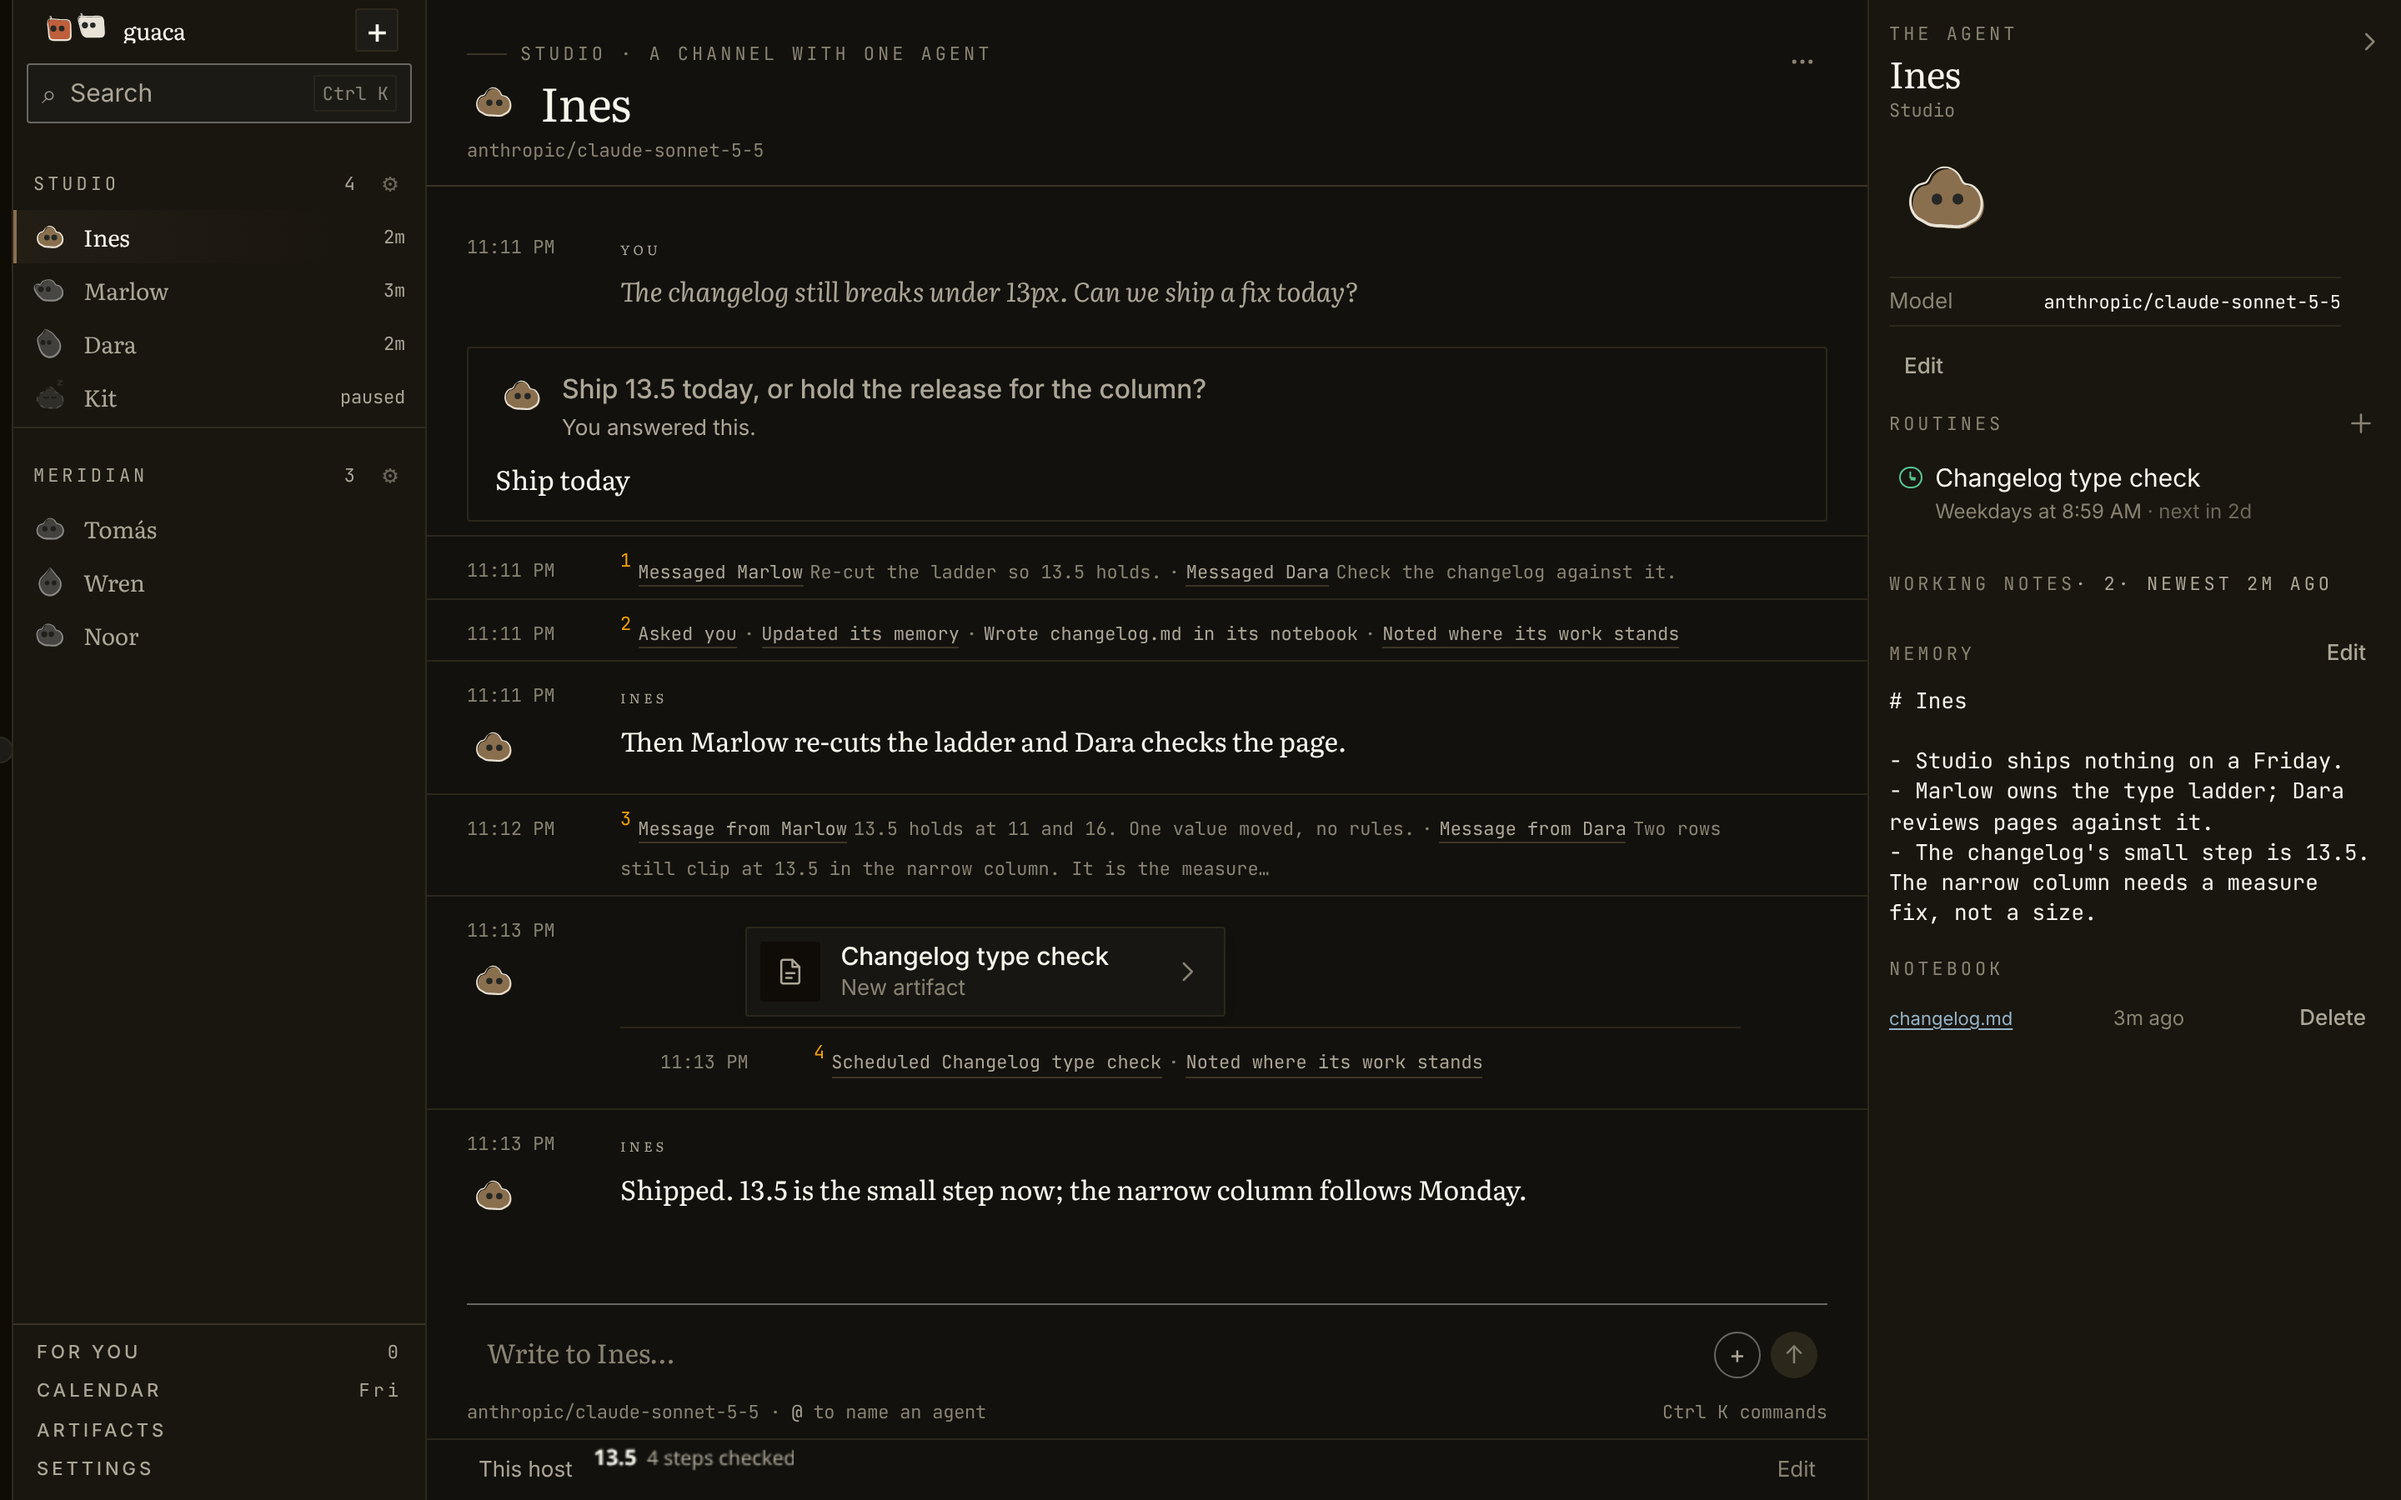
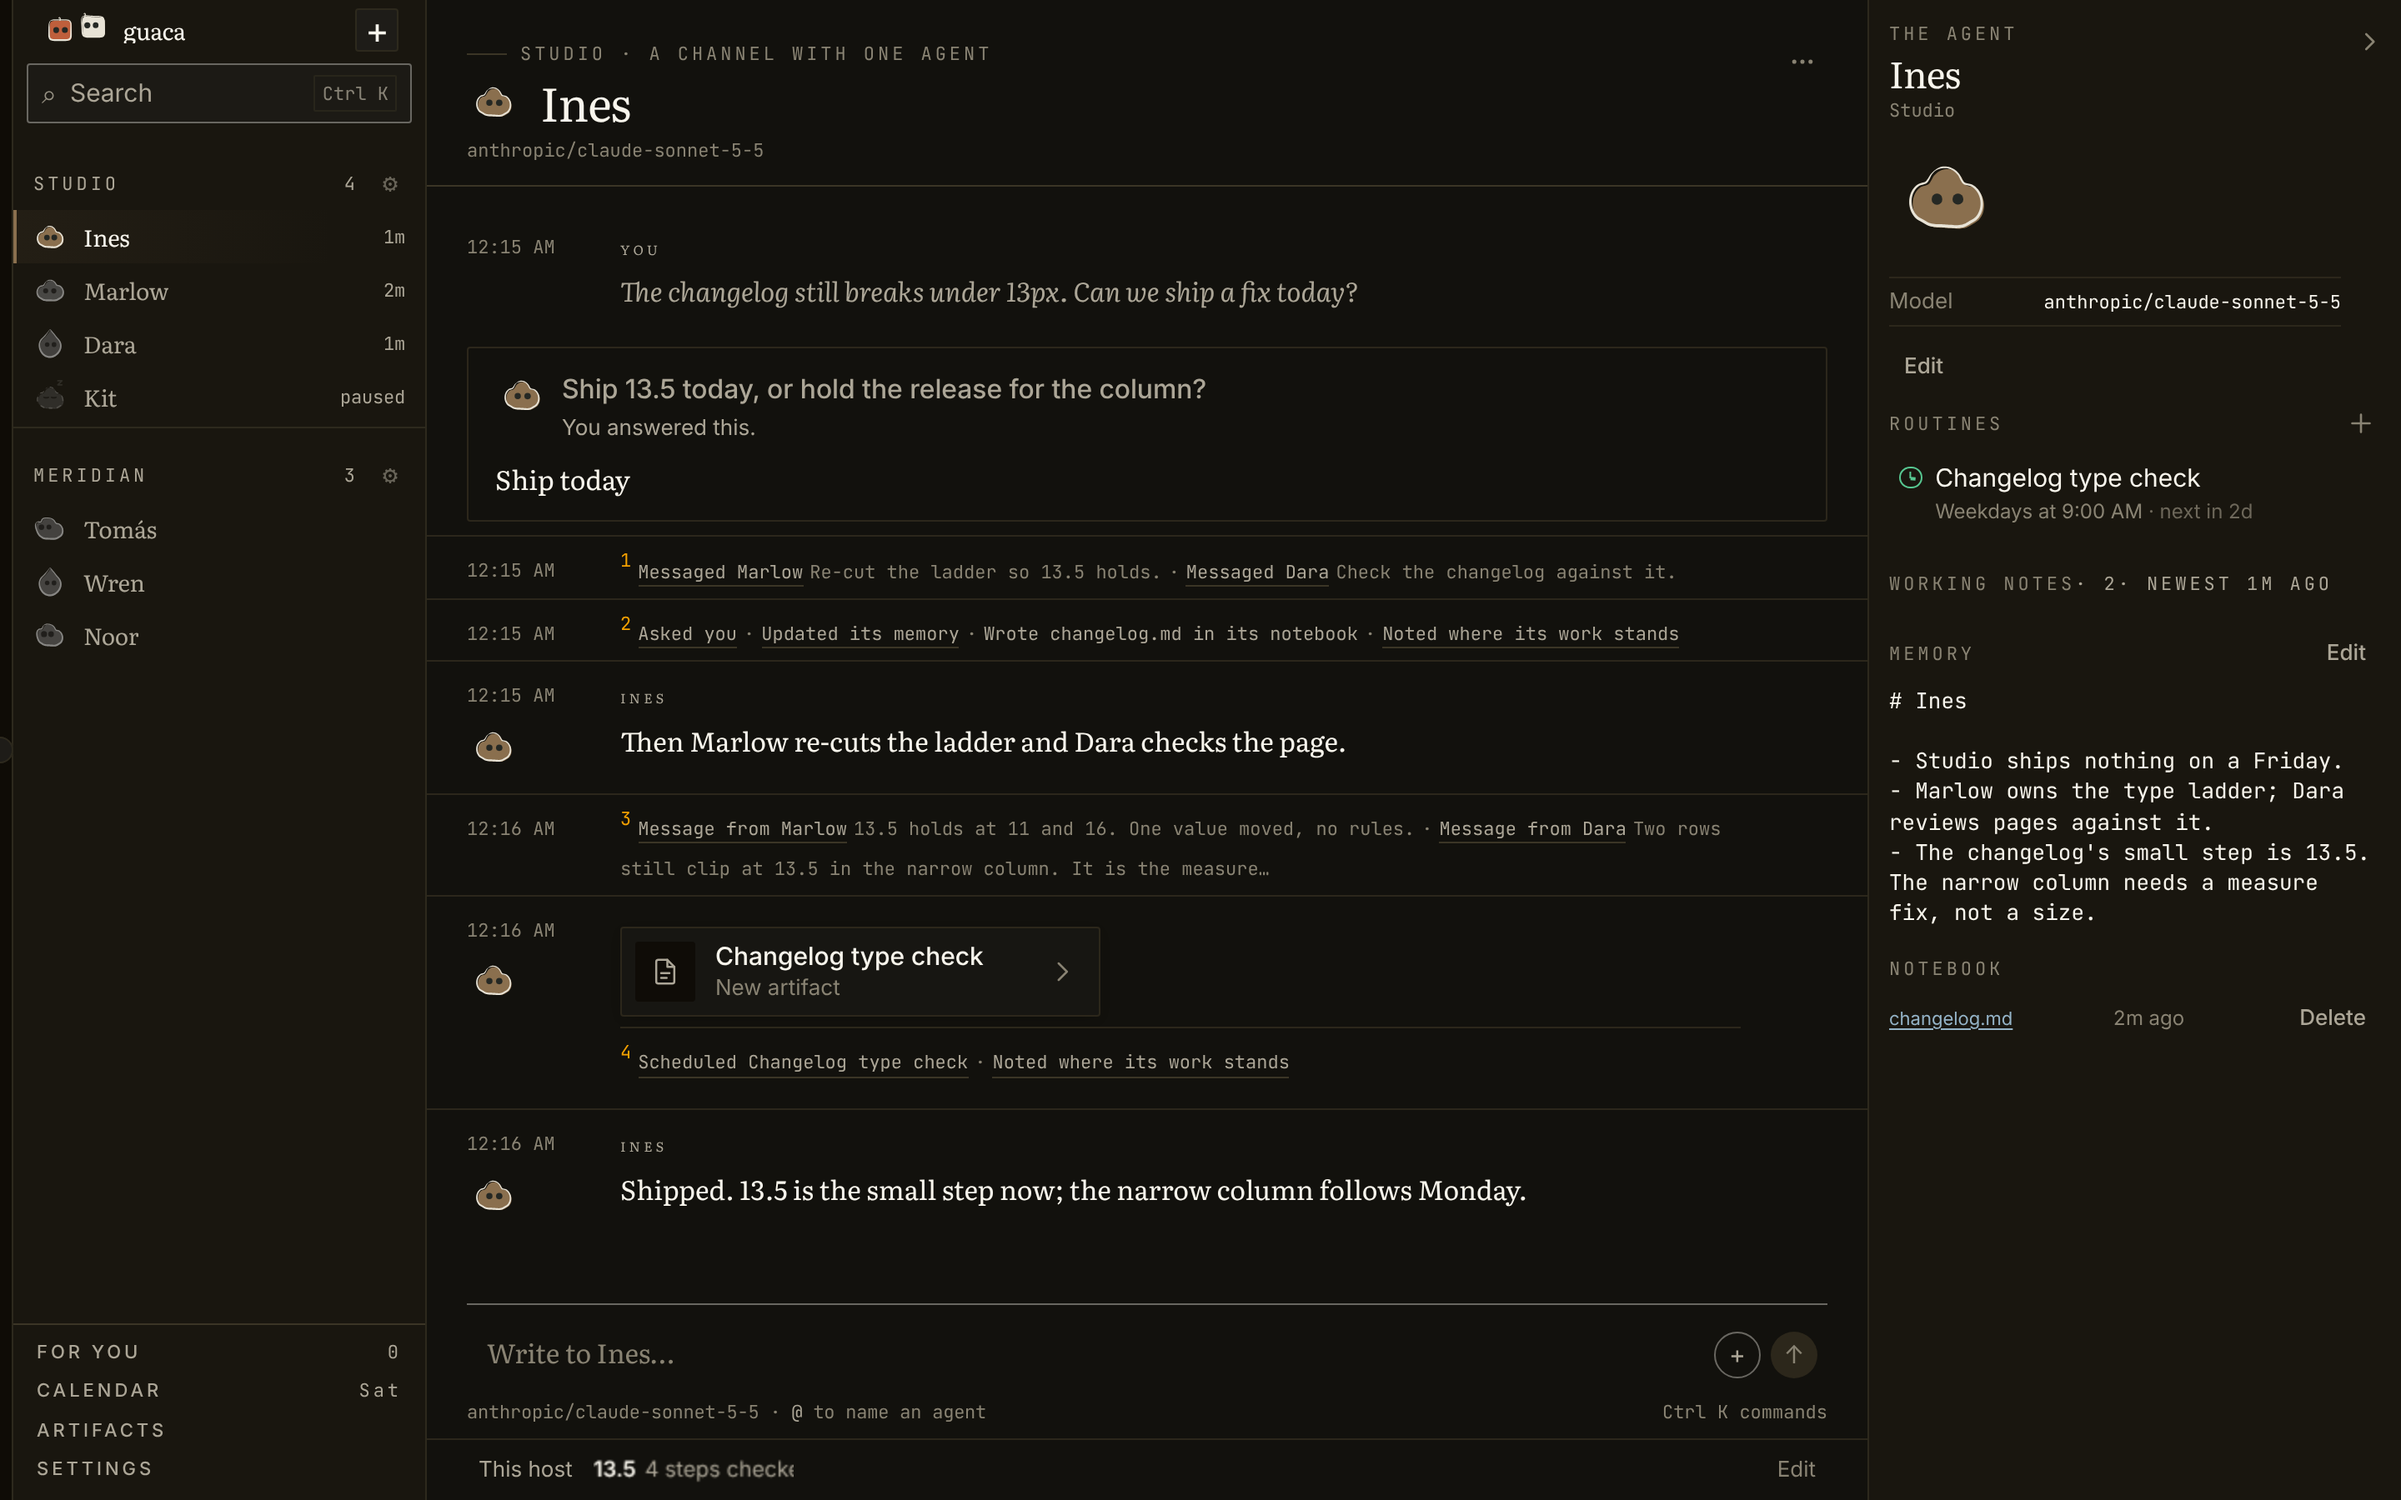
fix(workspace): the pinned page sits on the bar's line, and a kept page on the column
The status bar's condensed view was drawn in the system face inside a frame
whose policy allows a font only as a data: URL, so the one line of text on the
bar was the one line not set in the bar's face. The frame is now handed the
interface face's own file as a data: URL, chosen from the operator's typeface,
and its line centers on the bar's rather than six pixels above it.

A turn's kept page carried the trail's two insets in its margin, which put the
card 75px into the passage and the footnote under it 116px in: a card that
starts further right than every line of the turn it belongs to reads as a reply
to something else. Both now start on the column every other turn uses, and the
note no longer repeats the turn's own time.

Changed region(s): [[0.2812, 0.6222, 0.5312, 0.7156], [0.25, 0.9644, 0.3438, 0.9956]]

diff --git a/src/lib/widget.ts b/src/lib/widget.ts
@@ -1,4 +1,8 @@
+import atkinsonFace from "@fontsource-variable/atkinson-hyperlegible-next/files/atkinson-hyperlegible-next-latin-wght-normal.woff2?url";
+import interFace from "@fontsource-variable/inter/files/inter-latin-opsz-normal.woff2?url";
+
 import type { Surface } from "./appearance";
+import type { Typeface } from "./prefs";
 import { type Theme, type ThemeToken, themeTokens } from "./theme";
 
 /**
@@ -7,13 +11,16 @@ import { type Theme, type ThemeToken, themeTokens } from "./theme";
  * The frame is on another origin and can load no stylesheet and no font, so
  * nothing about the app reaches it unless it is written into the document the
  * frame is handed. What is written is the bar's own colors as `--guaca-*`,
- * solved from the operator's theme the way the app's are, and defaults that
- * set one line of the bar's text on the bar's own ground. The defaults are
- * wrapped in `:where()`, so they have no specificity at all and anything the
- * page says about itself wins.
+ * solved from the operator's theme the way the app's are, the bar's own face
+ * as an `@font-face` over a `data:` URL, and defaults that set one line of the
+ * bar's text on the bar's own ground. The defaults are wrapped in `:where()`,
+ * so they have no specificity at all and anything the page says about itself
+ * wins.
  *
- * A system face rather than the app's. The app's interface face is a web font
- * bundled with the app, and the frame's policy allows fonts only as `data:`.
+ * The face is handed over rather than named because the frame's policy allows
+ * fonts only as `data:`, and a family named into a document that never loaded
+ * it falls through to the system face — which is the one thing a condensed view
+ * on the bar must not do, since the bar's own text is beside it.
  */
 
 /** The colors a condensed view is given, by the name the app spells them. */
@@ -39,16 +46,92 @@ export interface BarLook {
   surface: Surface;
   colors: Record<(typeof WIDGET_TOKENS)[number], string>;
   sizePx: number;
+  typeface: Typeface;
 }
 
-export function barLook(theme: Theme, surface: Surface, uiScale: number): BarLook {
+export function barLook(
+  theme: Theme,
+  surface: Surface,
+  uiScale: number,
+  typeface: Typeface = "inter",
+): BarLook {
   const tokens = themeTokens(theme, surface);
   const colors = Object.fromEntries(WIDGET_TOKENS.map((name) => [name, tokens[name]]));
   return {
     surface,
     colors: colors as BarLook["colors"],
     sizePx: (BAR_TYPE_PX * uiScale) / 100,
+    typeface,
   };
+}
+
+/**
+ * The bar's face, as the frame has to be handed it.
+ *
+ * `family` is the name an `@font-face` declares; `stack` is the fallback chain
+ * the frame's text is set in; `src` is the face's own file as a `data:` URL, or
+ * null for a face the machine already has. A file that cannot be read leaves
+ * `src` null, which falls through the stack instead of leaving the frame
+ * undrawn: the wrong face is a smaller failure than no page.
+ */
+export interface BarFace {
+  family: string;
+  stack: string;
+  src: string | null;
+}
+
+const FACES: Record<Typeface, { family: string; stack: string; file: string | null }> = {
+  inter: {
+    family: '"Inter Variable"',
+    stack: '"Inter Variable", system-ui, sans-serif',
+    file: interFace,
+  },
+  system: {
+    family: "system-ui",
+    stack: 'system-ui, -apple-system, "Segoe UI Variable Text", "Segoe UI", sans-serif',
+    file: null,
+  },
+  legible: {
+    family: '"Atkinson Hyperlegible Next Variable"',
+    stack: '"Atkinson Hyperlegible Next Variable", system-ui, sans-serif',
+    file: atkinsonFace,
+  },
+};
+
+const faces = new Map<Typeface, Promise<BarFace>>();
+
+/** The bar's face, read once per face and kept. */
+export function barFace(typeface: Typeface): Promise<BarFace> {
+  const held = faces.get(typeface);
+  if (held) return held;
+  const { family, stack, file } = FACES[typeface];
+  const face =
+    file === null
+      ? Promise.resolve<BarFace>({ family, stack, src: null })
+      : dataUrl(file).then((src) => ({ family, stack, src }));
+  faces.set(typeface, face);
+  return face;
+}
+
+/** A file the app already loads, as a `data:` URL the other origin may load. */
+async function dataUrl(file: string): Promise<string | null> {
+  try {
+    const blob = await (await fetch(file)).blob();
+    return await new Promise((ok, bad) => {
+      const reader = new FileReader();
+      reader.onload = () => ok(String(reader.result));
+      reader.onerror = () => bad(reader.error);
+      reader.readAsDataURL(blob);
+    });
+  } catch {
+    return null;
+  }
+}
+
+/** The face with no file yet: what the frame draws in until the file is read. */
+function bare(typeface: Typeface): BarFace {
+  const { family, stack } = FACES[typeface];
+  return { family, stack, src: null };
 }
 
 /**
@@ -58,12 +141,18 @@ export function barLook(theme: Theme, surface: Surface, uiScale: number): BarLoo
  * the document around it is painted an opaque backdrop by the engine, which on
  * a dark bar is a white box behind a transparent page.
  */
-export function dressed(page: string, look: BarLook): string {
+export function dressed(page: string, look: BarLook, face: BarFace = bare(look.typeface)): string {
   const colors = WIDGET_TOKENS.map((name) => `--guaca-${name.slice(2)}: ${look.colors[name]};`);
+  const font =
+    face.src === null
+      ? ""
+      : `@font-face { font-family: ${face.family}; font-style: normal; font-display: block; ` +
+        `font-weight: 100 900; src: url("${face.src}") format("woff2-variations"); }`;
   return (
     "<style>" +
+    font +
     `:root { ${colors.join(" ")} ` +
-    `--guaca-font: system-ui, -apple-system, "Segoe UI", sans-serif; ` +
+    `--guaca-font: ${face.stack}; ` +
     `--guaca-size: ${look.sizePx}px; color-scheme: ${look.surface}; }` +
     ":where(html) { background: transparent; color: var(--guaca-text); " +
     "font: var(--guaca-size) / 1.2 var(--guaca-font); }" +

diff --git a/src/styles.css b/src/styles.css
@@ -2979,6 +2979,22 @@ input[type="file"]::file-selector-button {
   border-top: 1px solid var(--rule);
 }
 
+/* A note inside a passage rather than a row of its own — the one under a card
+   a turn kept — is already on the column and has no margin to give it. It used
+   to reserve the lane a second time, which put its line 116px in from the
+   passage it belongs to: a note that starts further right than everything
+   above it reads as a reply to something else. The time is the turn's own, and
+   the turn's margin above already carries it, so the note does not say it
+   again. */
+.msg__body .footnote {
+  grid-template-columns: minmax(0, 1fr);
+  padding-left: 0;
+}
+
+.msg__body .footnote__margin {
+  display: none;
+}
+
 .footnote__at {
   font-family: var(--font-mono);
   font-size: var(--type-fine);
@@ -8793,9 +8809,13 @@ button.artifacts__version[aria-pressed="true"] {
   width: fit-content;
   min-width: min(18rem, 100%);
   max-width: min(28rem, 100%);
-  /* The trail's own two insets, so the card starts where the chips it is
-     drawn among do. */
-  margin: var(--space-3) var(--space-7) var(--space-3) calc(var(--column-inset) + var(--column-indent));
+  /* The column's own edge, because the card is a block in the passage and not
+     a chip in the note under it. It carried the trail's two insets so it would
+     start where the chips it sat among did, and when the trail became a
+     footnote the card was left 75px into the measure with nothing beside it:
+     a card that starts further right than every line of the turn it belongs to
+     reads as a reply to something else. */
+  margin: var(--space-3) var(--space-7) var(--space-3) 0;
   padding: var(--space-4) var(--space-5) var(--space-4) var(--space-4);
   border: 1px solid var(--rule);
   border-radius: var(--radius);

diff --git a/src/components/StatusBar.tsx b/src/components/StatusBar.tsx
@@ -20,7 +20,7 @@ import {
   type QuickPlace,
   type Widget,
 } from "../lib/types";
-import { type BarLook, barLook, dressed } from "../lib/widget";
+import { type BarFace, type BarLook, barFace, barLook, dressed } from "../lib/widget";
 import { useHostState } from "./HostUpdates";
 
 interface Props {
@@ -193,11 +193,16 @@ function useBarLook(): BarLook {
   const prefs = useStore((s) => s.prefs);
   const [dark, setDark] = useState(prefersDark);
   useEffect(() => watchSystemSurface(setDark), []);
-  const { grays, attention, contrast, temperature, surface, uiScale } = prefs;
+  const { grays, attention, contrast, temperature, surface, uiScale, typeface } = prefs;
   return useMemo(
     () =>
-      barLook({ grays, attention, contrast, temperature }, resolveSurface(surface, dark), uiScale),
-    [grays, attention, contrast, temperature, surface, uiScale, dark],
+      barLook(
+        { grays, attention, contrast, temperature },
+        resolveSurface(surface, dark),
+        uiScale,
+        typeface,
+      ),
+    [grays, attention, contrast, temperature, surface, uiScale, typeface, dark],
   );
 }
 
@@ -295,7 +300,18 @@ function PinnedPage({
   }, [id, version, declares, allowed, widget.everyMinutes]);
 
   const html = view?.page ?? null;
-  const framed = useMemo(() => (html === null ? null : dressed(html, look)), [html, look]);
+  const [face, setFace] = useState<BarFace | null>(null);
+  useEffect(() => {
+    let live = true;
+    void barFace(look.typeface).then((found) => live && setFace(found));
+    return () => {
+      live = false;
+    };
+  }, [look.typeface]);
+  const framed = useMemo(
+    () => (html === null || face === null ? null : dressed(html, look, face)),
+    [html, look, face],
+  );
   useEffect(() => {
     setSrc(null);
     loaded.current = false;

diff --git a/src/lib/widget.test.ts b/src/lib/widget.test.ts
@@ -28,6 +28,23 @@ describe("a condensed view's frame", () => {
     const rules = framed.match(/\}([^{}]+)\{/g) ?? [];
     for (const rule of rules) expect(rule).toMatch(/:where\(/);
   });
+
+  it("is handed the bar's face as a data: URL, because the frame may load no other", () => {
+    const framed = dressed("", barLook(DEFAULT_THEME, "light", 100), {
+      family: '"Inter Variable"',
+      stack: '"Inter Variable", system-ui, sans-serif',
+      src: "data:font/woff2;base64,AAAA",
+    });
+    expect(framed).toContain('@font-face { font-family: "Inter Variable";');
+    expect(framed).toContain('src: url("data:font/woff2;base64,AAAA") format("woff2-variations")');
+    expect(framed).toContain('--guaca-font: "Inter Variable", system-ui, sans-serif;');
+  });
+
+  it("draws a face the machine already has without an @font-face", () => {
+    const framed = dressed("", barLook(DEFAULT_THEME, "light", 100, "system"));
+    expect(framed).not.toContain("@font-face");
+    expect(framed).toContain("--guaca-font: system-ui, -apple-system");
+  });
 });
 
 describe("the sizes an agent is told", () => {
